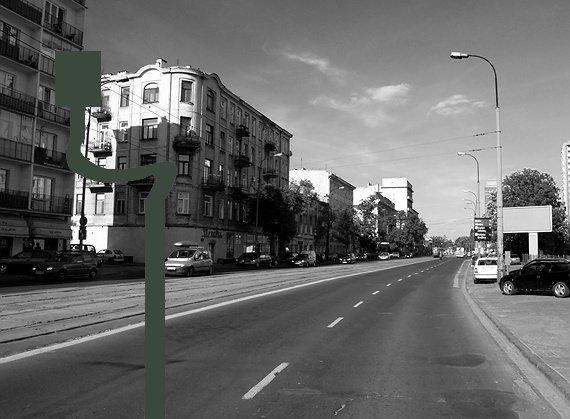
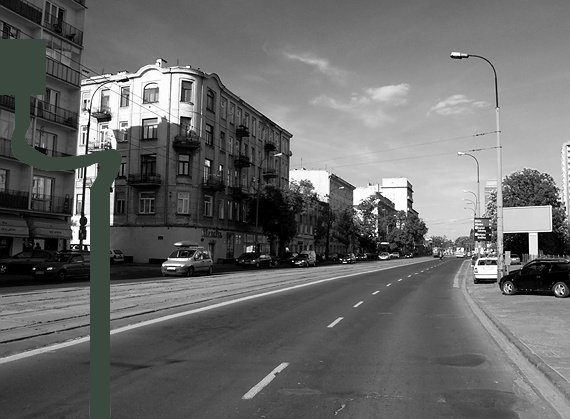
work2

Changed region(s): [[0.0, 0.0931, 0.2982, 0.8377], [0.2386, 0.6205, 0.2982, 0.8067]]

diff --git a/application/views/drag.php b/application/views/drag.php
@@ -1,6 +1,7 @@
 <html>
 <head>
-   <meta http-equiv="Content-Type" content="text/html; charset=UTF-8" />
+  <meta http-equiv="Content-Type" content="text/html; charset=UTF-8" />
+	<link href="/css/jquery-ui.css" rel="stylesheet" type="text/css"/>
 <style type="text/css">
 
 * {
@@ -8,22 +9,31 @@
 	padding:0;
 }
 
+.product-resize {
+	border: 1px solid black;
+}
 .draggable {
 	z-index: 200;
 }
 .draggable img {
-	border: 1px dotted #eee;
+	/* border: 1px dotted #000; */
 	z-index: 200;
 }
 
-#resizable {m
+
+#resizable {
 	width: 200px;
 	border: 1px dotted #eee;
 	height: 300px;
 }
 
+
 .canvas-active {
 	opacity: 0.8;
+}
+
+.product-active {
+	border: 1px solid black;
 }
 
 .draggable:hover {
@@ -137,7 +147,7 @@
 						foreach ($items as $filename) {
 							
 							echo '
-							<div class="draggable" title="Przeciagnij obrazek na tło" id="parent-prod'.str_replace('.png', '', $filename).'" style="margin-bottom: 10px">
+							<div class="draggable" title="&raquo; Złap lampę i przesuń na tło" id="parent-prod'.str_replace('.png', '', $filename).'" style="margin-bottom: 10px">
 								<img id="prod'.str_replace('.png', '', $filename).'" class="'.str_replace('.png', '', $filename).'" src="/uploads/'.$filename.'" width="200" height="550">
 							</div>
 							';
@@ -214,7 +224,6 @@
 <script src="/javascript/ui.core.min.js" type="text/javascript"></script>
 <script src="/javascript/ui.draggable.min.js" type="text/javascript"></script>
 <script src="/javascript/ui.droppable.min.js" type="text/javascript"></script>
-<link href="/css/jquery-ui.css" rel="stylesheet" type="text/css"/>
 <script src="/javascript/ui.resizable.min.js" type="text/javascript"></script>
 <!-- 
 <script src="/javascript/json.js" type="text/javascript"></script>
@@ -288,9 +297,11 @@
             clone.css('position', 'absolute');
             clone.css('top', lastXY+'px');
             clone.css('left', lastXY+'px');
+            clone.children().css('border', '1px dotted black');
+            
             clone.appendTo($("#canvas"));
             
-            clone.attr('title', 'mozesz przesuwac obiekt, oraz zmieniac rozmiar lapiac za prawy dolny rog');
+            clone.attr('title', "Złap lampę i przesuń \nZłap lampę za róg i przeskaluj");
                 
             //zmiana id clonowanego obiektu
             clone.attr('id', prodId+'canvas-'+clone.attr('id'));
@@ -305,6 +316,14 @@
             //dziala w IE - rightclick
 						clone.mousedown(function(event, ui){
 							checkRightClickIE(event);
+						});	
+
+						clone.children().mouseover(function(event, ui){
+							this.style.border = '1px dotted white';
+						});
+				
+						clone.children().mouseout(function(event, ui){
+							this.style.border = '1px dotted black';
 						});	
             
             clone.draggable({
@@ -336,7 +355,7 @@
            
            /*
             */
-           clone.children().resizable({containment: '#canvas', aspectRatio: true, 
+           clone.children().resizable({containment: '#canvas', aspectRatio: true,animateDuration: 500, autoHide: true, handles: "ne, se, sw, nw",
                stop: function(event, ui){ 
 
                	   	 var id = clone.attr('id');
